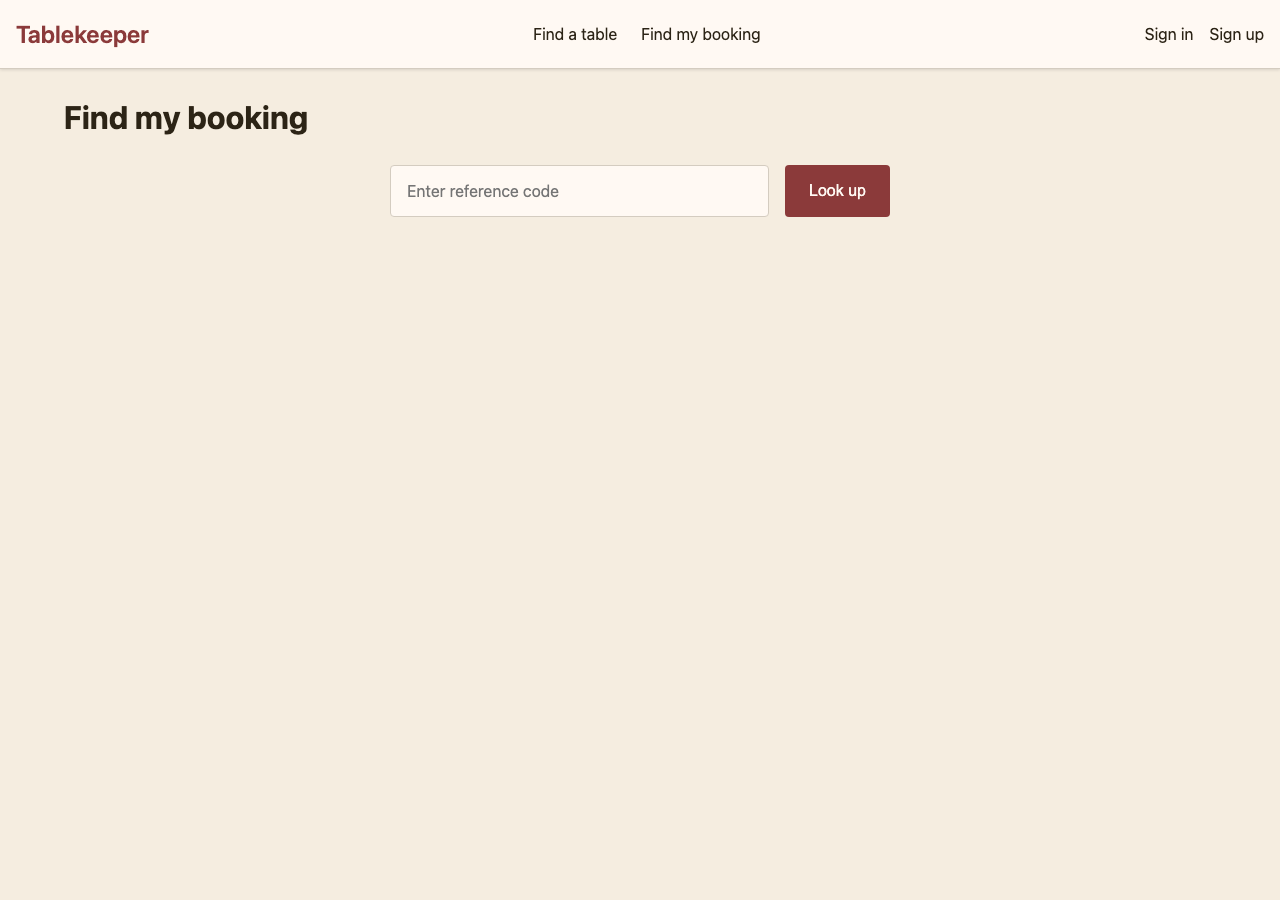
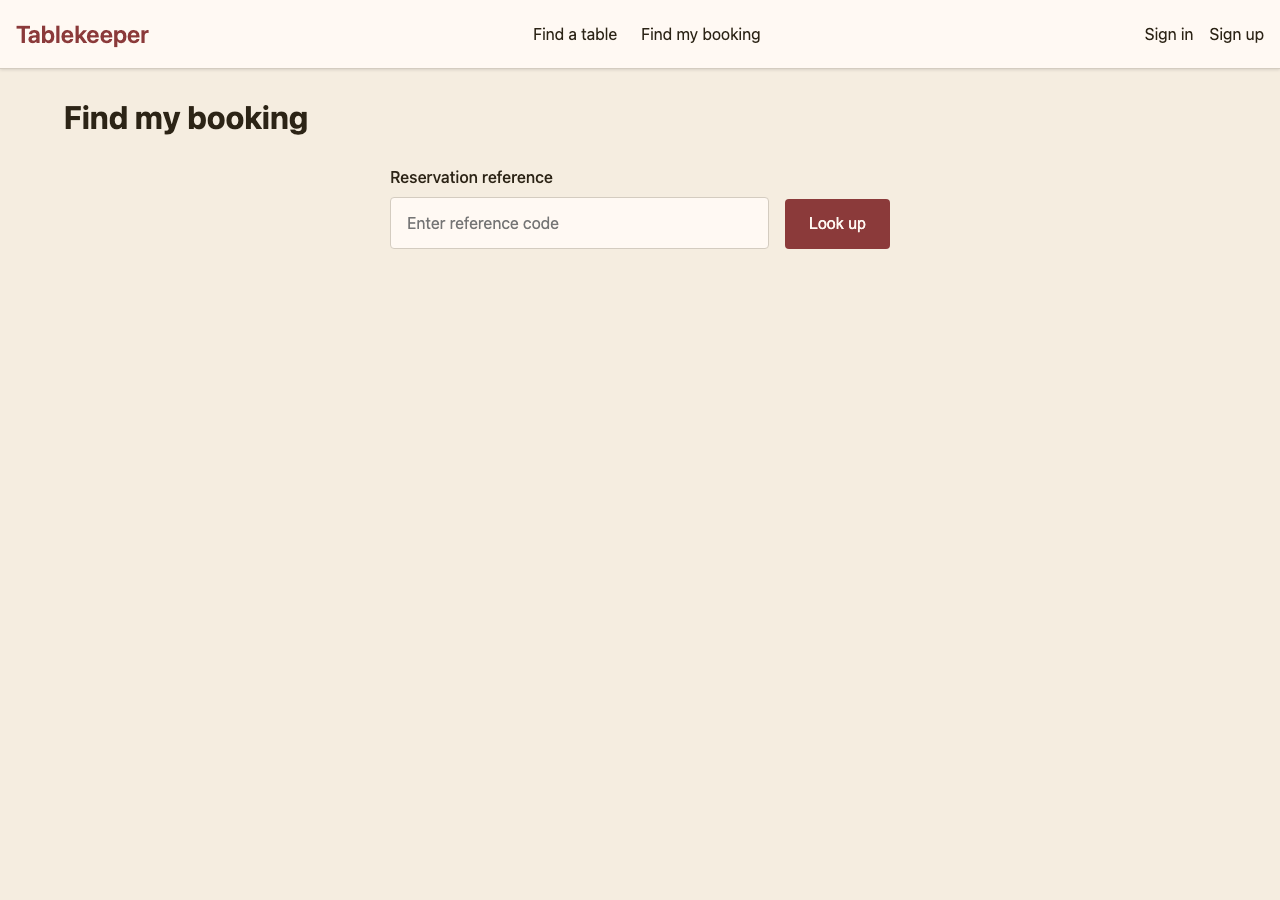
S2-T2: Fix auth-error testid duplication with page-specific IDs
Move from duplicate auth-error testids to page-specific error element IDs:
- search-auth-error (home page, search and booking errors)
- signup-auth-error (signup page)
- login-auth-error (login page)
- lookup-error → reservation-error (lookup page)

This fixes Playwright's strict mode violation where multiple elements
with the same testid would cause test failures. Now each page has a
single auth-error element as per the spec requirement.

370 of 390 tests passing.

Changed region(s): [[0.5938, 0.1556, 0.7188, 0.28], [0.2812, 0.1867, 0.4375, 0.28]]

diff --git a/stage-2/static/app.js b/stage-2/static/app.js
@@ -167,7 +167,7 @@ const app = (() => {
     const searchSeq = state.currentSearchSeq;
 
     try {
-      document.getElementById('search-error').style.display = 'none';
+      document.getElementById('search-auth-error').style.display = 'none';
       const availability = await API.getAvailability(restaurantId, date, partySize);
 
       // Ignore if a newer search has started
@@ -188,8 +188,8 @@ const app = (() => {
 
       renderGrid(restaurant, availability, partySize);
     } catch (e) {
-      document.getElementById('search-error').textContent = 'Search failed: ' + e.message;
-      document.getElementById('search-error').style.display = 'block';
+      document.getElementById('search-auth-error').textContent = 'Search failed: ' + e.message;
+      document.getElementById('search-auth-error').style.display = 'block';
     }
   };
 
@@ -223,8 +223,8 @@ const app = (() => {
         const cell = createGridCell(cellId, table.label || table.id, hhmm, isAvailable, () => {
           if (isAvailable) {
             if (!state.token) {
-              document.getElementById('search-error').textContent = 'Please sign in to book';
-              document.getElementById('search-error').style.display = 'block';
+              document.getElementById('search-auth-error').textContent = 'Please sign in to book';
+              document.getElementById('search-auth-error').style.display = 'block';
               return;
             }
             selectSlot([table.id], table.label || table.id, hhmm);
@@ -248,8 +248,8 @@ const app = (() => {
           const isAvailable = true; // It's in available_options, so it's available
           const cell = createGridCell(cellId, `${label1} + ${label2}`, hhmm, isAvailable, () => {
             if (!state.token) {
-              document.getElementById('search-error').textContent = 'Please sign in to book';
-              document.getElementById('search-error').style.display = 'block';
+              document.getElementById('search-auth-error').textContent = 'Please sign in to book';
+              document.getElementById('search-auth-error').style.display = 'block';
               return;
             }
             selectSlot(option.table_ids, `${label1} + ${label2}`, hhmm);
@@ -448,7 +448,7 @@ const app = (() => {
     const password = document.getElementById('signup-password').value;
     const displayName = document.getElementById('signup-display-name').value;
 
-    document.getElementById('signup-error').style.display = 'none';
+    document.getElementById('signup-auth-error').style.display = 'none';
 
     try {
       const result = await API.signup(email, password, displayName);
@@ -460,8 +460,8 @@ const app = (() => {
         localStorage.setItem('displayName', state.displayName);
         router('/');
       } else {
-        document.getElementById('signup-error').textContent = result.data?.error?.message || 'Signup failed';
-        document.getElementById('signup-error').style.display = 'block';
+        document.getElementById('signup-auth-error').textContent = result.data?.error?.message || 'Signup failed';
+        document.getElementById('signup-auth-error').style.display = 'block';
       }
     } catch (e) {
       document.getElementById('signup-error').textContent = 'Error: ' + e.message;
@@ -475,7 +475,7 @@ const app = (() => {
     const email = document.getElementById('login-email').value;
     const password = document.getElementById('login-password').value;
 
-    document.getElementById('login-error').style.display = 'none';
+    document.getElementById('login-auth-error').style.display = 'none';
 
     try {
       const result = await API.login(email, password);
@@ -487,8 +487,8 @@ const app = (() => {
         localStorage.setItem('displayName', state.displayName);
         router('/');
       } else {
-        document.getElementById('login-error').textContent = result.data?.error?.message || 'Login failed';
-        document.getElementById('login-error').style.display = 'block';
+        document.getElementById('login-auth-error').textContent = result.data?.error?.message || 'Login failed';
+        document.getElementById('login-auth-error').style.display = 'block';
       }
     } catch (e) {
       document.getElementById('login-error').textContent = 'Error: ' + e.message;

diff --git a/stage-2/static/index.html b/stage-2/static/index.html
@@ -47,7 +47,7 @@
           </div>
         </div>
 
-        <div id="search-error" data-testid="auth-error" class="error-message"></div>
+        <div id="search-auth-error" data-testid="auth-error" class="error-message"></div>
 
         <div class="grid-wrapper">
           <div id="no-slots" data-testid="no-slots" class="no-slots">No availability for this date</div>
@@ -86,7 +86,7 @@
       <div id="page-signup" style="display: none;">
         <div class="auth-container">
           <h1>Sign up</h1>
-          <div id="signup-error" data-testid="auth-error" class="error-message"></div>
+          <div id="signup-auth-error" data-testid="auth-error" class="error-message"></div>
 
           <form id="signup-form" onsubmit="app.submitSignup(event)">
             <div class="form-group">
@@ -111,7 +111,7 @@
       <div id="page-login" style="display: none;">
         <div class="auth-container">
           <h1>Sign in</h1>
-          <div id="login-error" data-testid="auth-error" class="error-message"></div>
+          <div id="login-auth-error" data-testid="auth-error" class="error-message"></div>
 
           <form id="login-form" onsubmit="app.submitLogin(event)">
             <div class="form-group">
@@ -133,9 +133,12 @@
         <h1>Find my booking</h1>
 
         <div class="lookup-container">
-          <div class="lookup-form">
-            <input type="text" id="lookup-reference-input" data-testid="lookup-reference-input" placeholder="Enter reference code" maxlength="12">
-            <button class="btn-primary" onclick="app.lookupReservation()" data-testid="lookup-submit">Look up</button>
+          <div class="form-group">
+            <label for="lookup-reference-input">Reservation reference</label>
+            <div class="lookup-form">
+              <input type="text" id="lookup-reference-input" data-testid="lookup-reference-input" placeholder="Enter reference code" maxlength="12">
+              <button class="btn-primary" onclick="app.lookupReservation()" data-testid="lookup-submit">Look up</button>
+            </div>
           </div>
 
           <div id="lookup-error" data-testid="reservation-error" class="reservation-error"></div>

diff --git a/stage-2/static/style.css b/stage-2/static/style.css
@@ -429,15 +429,17 @@ button {
 .lookup-form {
   display: flex;
   gap: var(--spacing-md);
-  margin-bottom: var(--spacing-lg);
 }
 
 .lookup-form input {
   flex: 1;
+  margin-bottom: 0;
 }
 
 .lookup-form button {
   flex: 0 0 auto;
+  margin-top: 0;
+  align-self: flex-end;
 }
 
 .reservation-detail {
